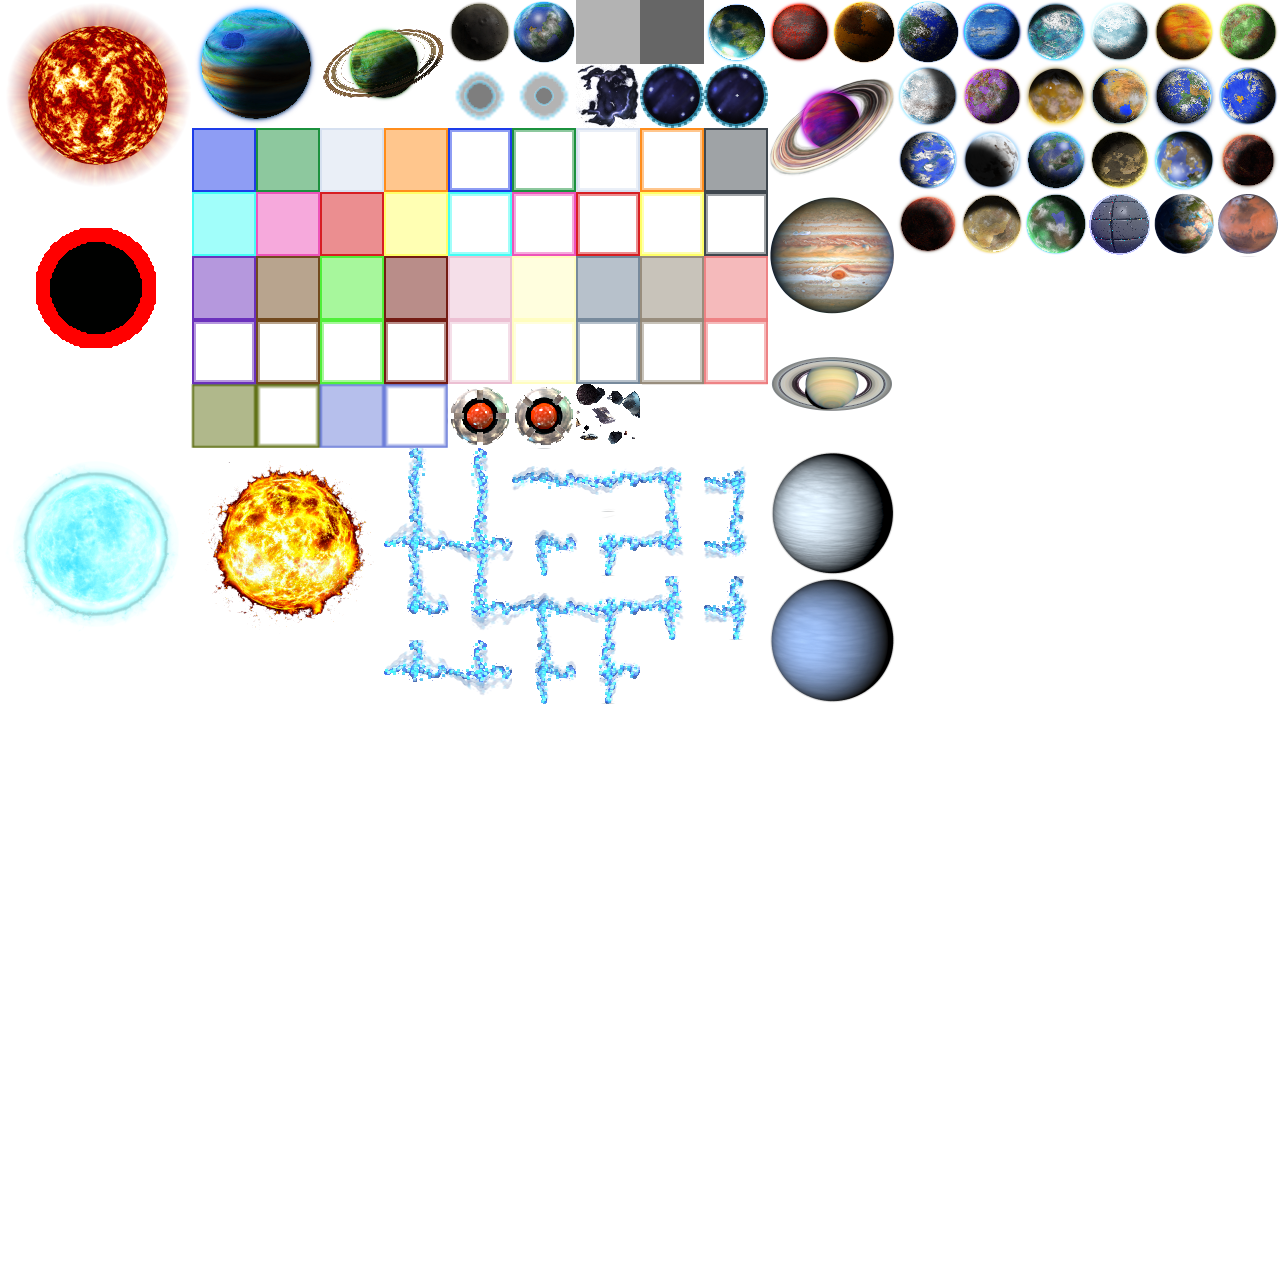
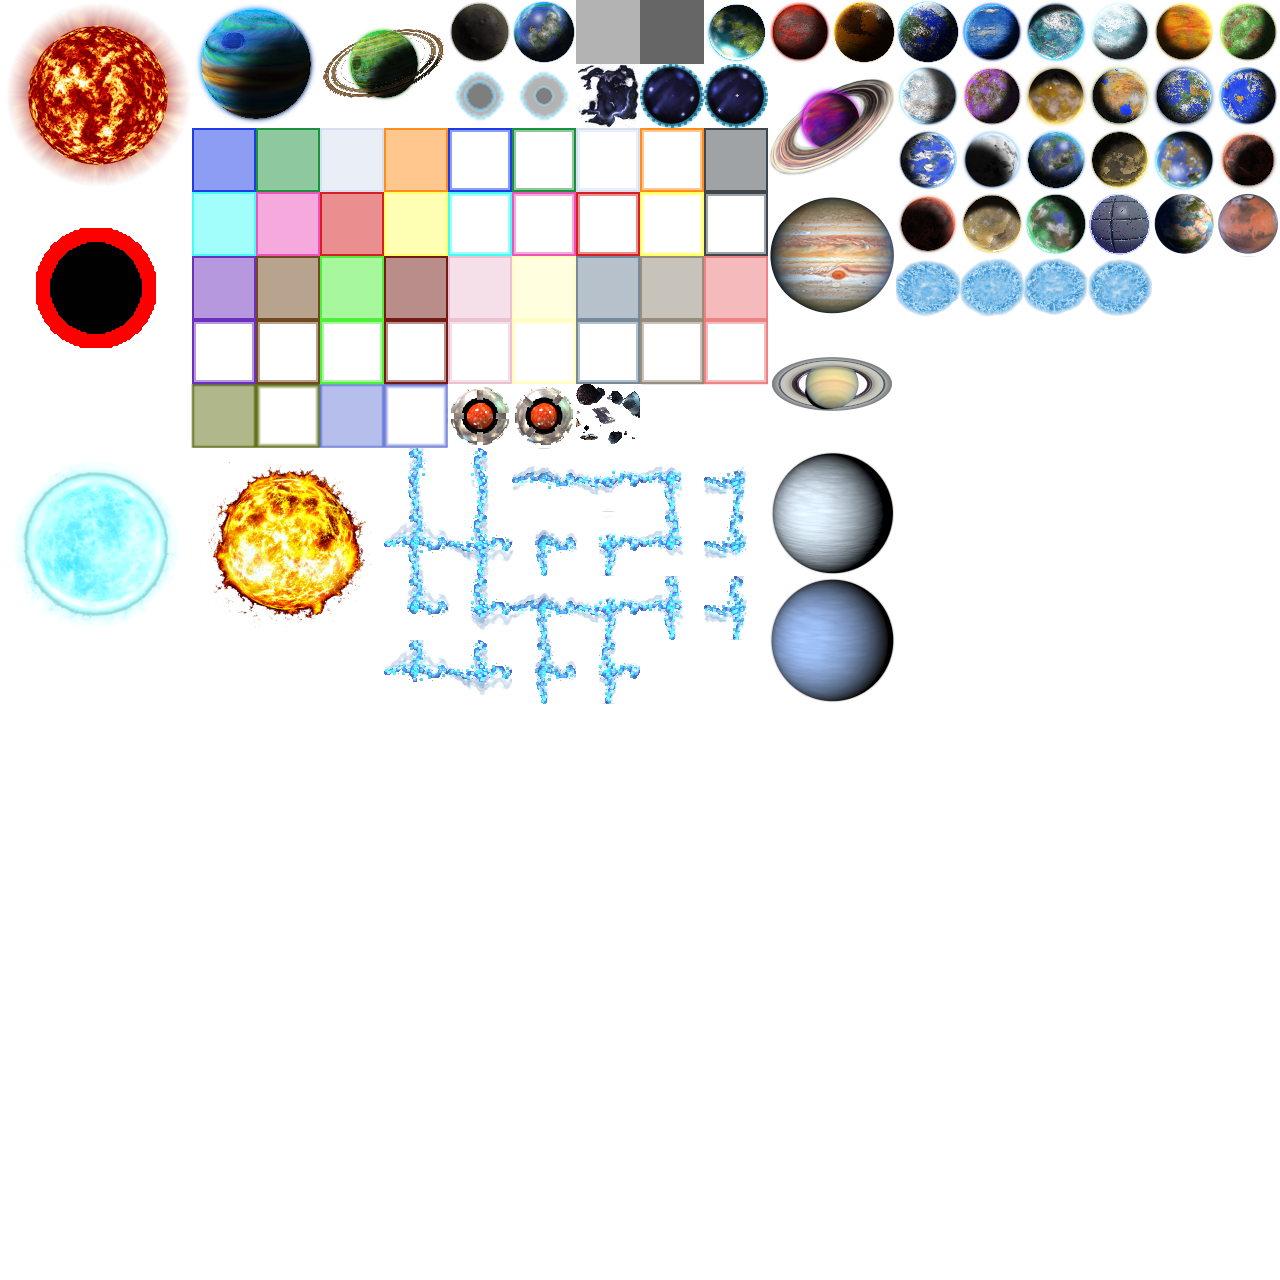
#555 Adds maptiles for ascension portal.

Changed region(s): [[0.6875, 0.1875, 0.9062, 0.25]]

diff --git a/src/main/java/org/openRealmOfStars/game/States/CreditsView.java b/src/main/java/org/openRealmOfStars/game/States/CreditsView.java
@@ -287,6 +287,11 @@ public class CreditsView extends BlackPanel {
       + "Lush Vegetation by Tuomo Untinen with Stable Diffusion\n\n"
       + "Artifact on Planet by Tuomo Untinen with Stable Diffusion\n\n"
       + "Destroyed planet map tile by Tuomo Untinen with Stable Diffusion\n\n"
+      + "Gravity veins map tiles by Tuomo Untinen\n\n"
+      + "Animated Portal or Wormhole, several Variants by Hansjörg Malthaner\n"
+      + "http://opengameart.org/users/varkalandar\n"
+      + "Licensed under CC BY SA 4.0\n"
+      + "https://creativecommons.org/licenses/by-sa/4.0/\n\n"
       + "\n\nFonts are under SIL Open Font License, Version 1.1.\n"
       + "# Fonts by\n\n"
       + "Cubellan font by Jyrki Ihalainen (yardan74@gmail.com)\n\n"

diff --git a/AUTHORS.md b/AUTHORS.md
@@ -337,6 +337,13 @@ Artifact on Planet by Tuomo Untinen with Stable Diffusion
 
 Destroyed planet map tile by Tuomo Untinen with Stable Diffusion
 
+Gravity veins map tiles by Tuomo Untinen
+
+Animated Portal or Wormhole, several Variants by Hansjörg Malthaner
+http://opengameart.org/users/varkalandar
+Licensed under CC BY SA 4.0
+https://creativecommons.org/licenses/by-sa/4.0/
+
 
 
 Fonts are under SIL Open Font License, Version 1.1.
@@ -609,5 +616,3 @@ Licensed under CC BY 4.0 http://creativecommons.org/licenses/by/4.0/
 
 Solar Sail by Vitalezzz
 Licensed under CC BY 4.0 http://creativecommons.org/licenses/by/4.0/
-
-
